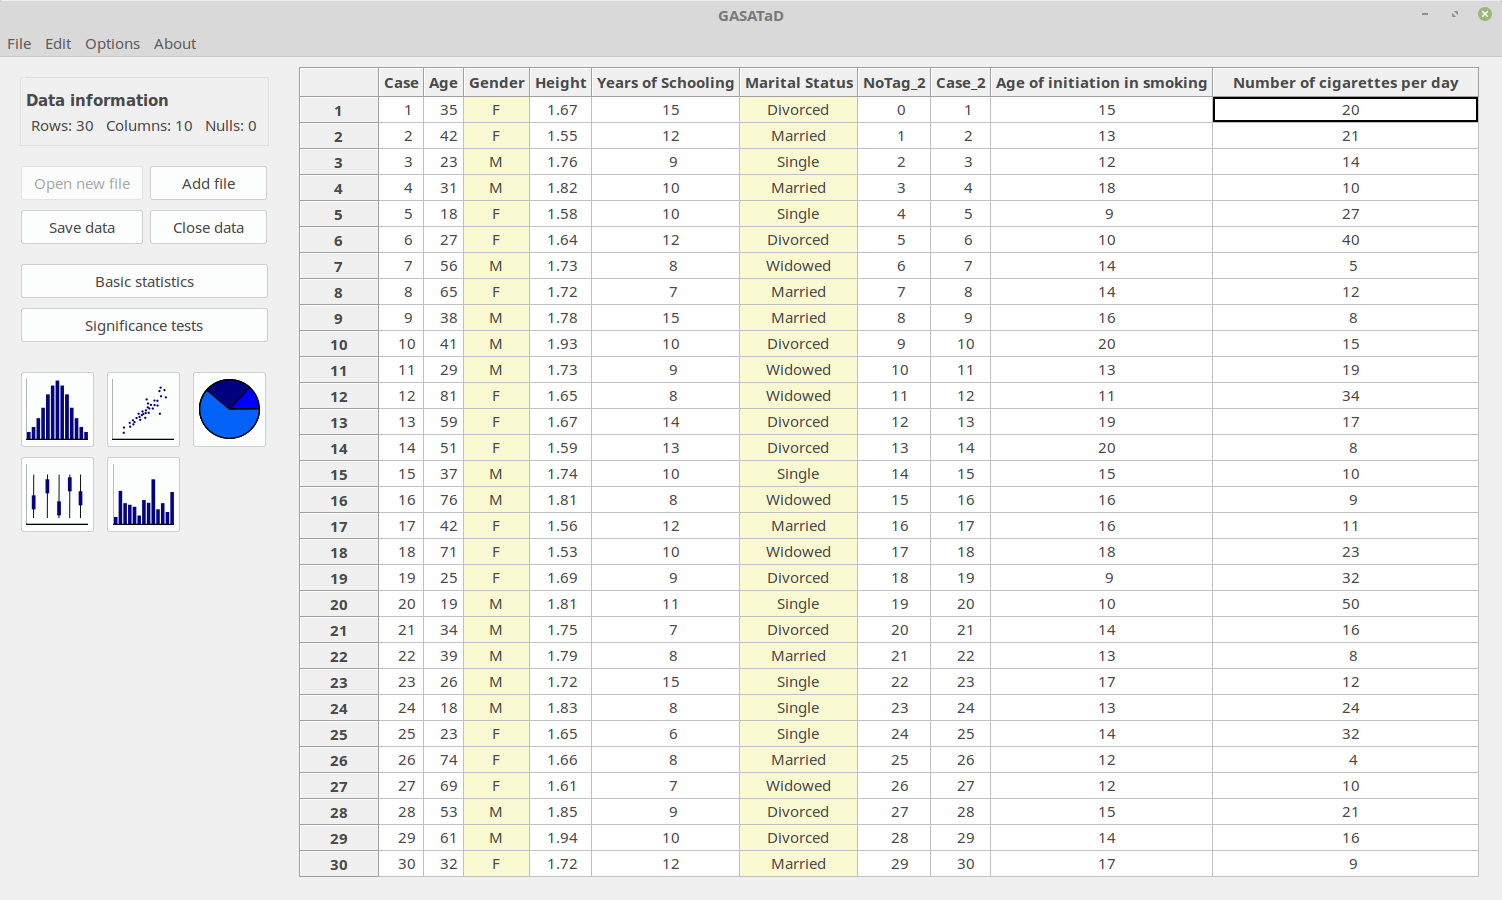
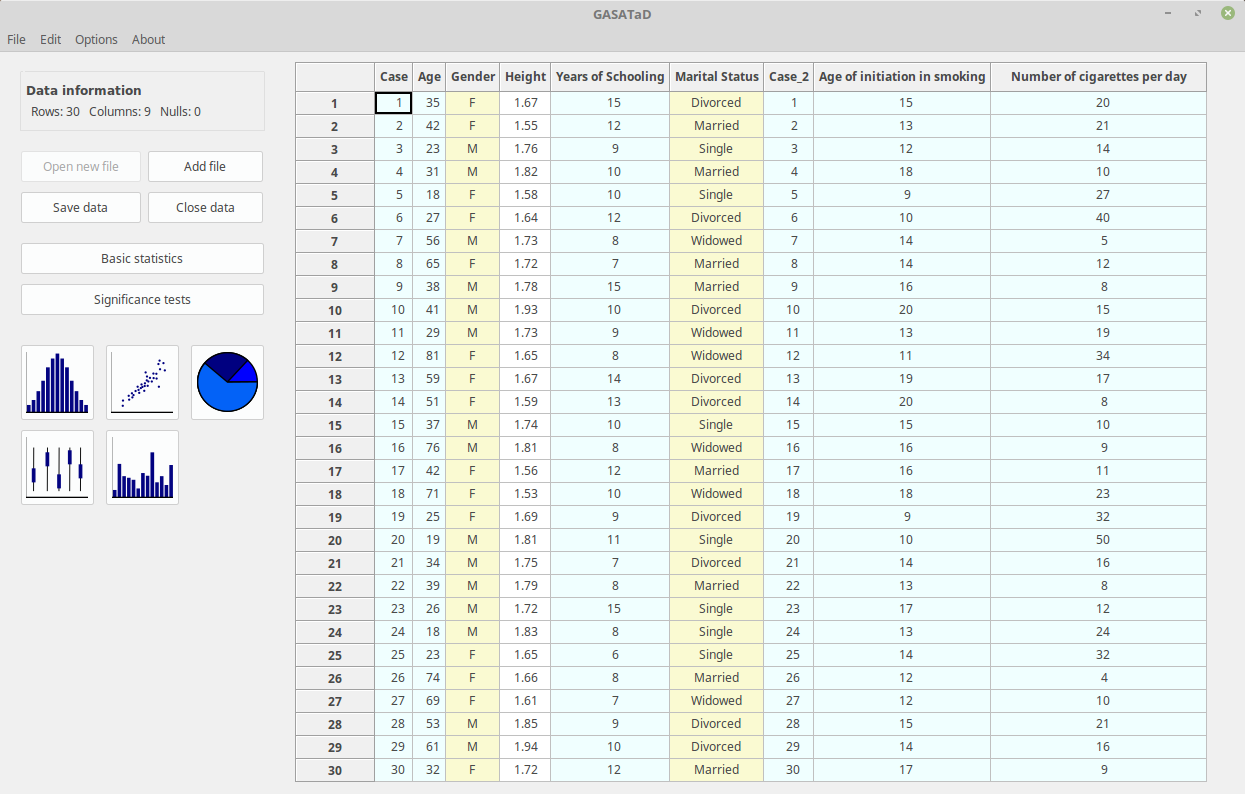
Update 5-minutes-tour to v1.5

diff --git a/docs/fiveminutestour.html b/docs/fiveminutestour.html
@@ -50,13 +50,13 @@
 						<li><p>Merges data of different nature from different files.</p></li>
 						<li><p>Calculates basic statistical results over the data.</p></li>
 						<li><p>Performs different significance test.</p></li>
-						<li><p>Generates and exports high quality plots.</p></li>
 						<li><p>Classifies data into different categories.</p></li>
+						<li><p>Generates and exports high quality plots.</p></li>
 					</ul>
 
 					<h2>Hardware and software requirements</h2>
 					<p>Basic hardware requirements to run GASATaD are 3GB of RAM, and 5GB free space of hard disk.</p>
-					<p>The application runs on GNU/Linux, 32 and 64 bits (e.g. Ubuntu Linux); Microsoft Windows, 32 and 64 bits; and MacOS, 32 and 64 bits.</p>
+					<p>The application runs on GNU/Linux (e.g. Ubuntu Linux), Microsoft Windows and MacOS.</p>
 					<br/>
 
 					<h2>Interface description</h2>
@@ -66,13 +66,13 @@
 							<img src="./fiveimgs/MainWindow.png" alt="" style="width:100%"/>
 					</div>
 					<br/>
-					<p>On the right side, data will be displayed on a table when files are opened. Initially, columns are labeled with letters and the rows using numbers. Numerical values appear in white cells whereas textual data will be presented with yellow background.</p>
-					<p>On the left panel, the upper area corresponds to information about the data (number of rows, columns and null values) . Just under this area, buttons are available to manage data and files, and to perform statistical analyses (basic or significance). Below, plotting functionalities are included.</p>
+					<p>On the right side of the window, the data will be displayed on a table when files are opened. Initially, columns will be labeled using letters and rows will be labeled with numbers. Numerical values will appear in white or light blue cells, depending if they belong to float or integer columns, respectively. Textual data will be presented in yellow background.</p>
+					<p>On the left panel, the upper area shows information about the data (number of rows, columns and null values). Just under this area, buttons are available to manage data and files, or to perform basic statistical analyses or significance tests. Below, plotting functionalities are included.</p>
 
 					<br/>
 
 					<h2>A five minutes guided example in GASATaD</h2>
-					<p>First, download .csv data files from <a href="https://milegroup.github.io/gasatad/#download" target="_blank">https://milegroup.github.io/gasatad/#download</a>. Two files are provided: testfile1.csv and testfile2.csv.</p>
+					<p>First, download .csv data files from <a href="https://milegroup.github.io/gasatad/#download" target="_blank">https://milegroup.github.io/gasatad/#download</a>. Uncompress to obtain two files: testfile1.csv and testfile2.csv.</p>
 					<br/>
 
 					<ol>
@@ -103,7 +103,7 @@
 						<li>
 							<p><i>Reorder the rows of the table:</i> select the <b>Age</b> column and then you can either use the main menu (<b>Edit → Sort using selected column → ascending</b>), or right-click and the <b>Sort using column → ascending</b> option.</p>
 							<br/>
-							<div class="mx-auto col-md-11">
+							<div class="mx-auto col-md-12">
 								<img src="./fiveimgs/SortData.png" alt="" style="width:100%"/>
 							</div>
 						</li>
@@ -115,12 +115,12 @@
 								<img src="./fiveimgs/AddColumn.png" alt="" style="width:100%"/>
 							</div>
 							<br/>
-							<p>Afterwards, a new column labeled <b>Age ranges</b> will be created. This column will classify the rows into three different age ranges: young, adult and elder.</p>
+							<p>A new column labeled <b>Age ranges</b> will be created. This column classifies the rows into three different age ranges: young, adult and elder.</p>
 						</li>
 						<br/>
 
 						<li>
-							<p><i>Calculate basic statistics of a numerical column:</i> on the left panel, click on the button <b>Basic statistics</b>, and select the column <b>Age</b>. You can restrict which values of the column are going to be used, and, after pressing <b>Show results</b>, a basic statistical analysis of these values is presented.</p>
+							<p><i>Calculate basic statistics of a numerical column:</i> on the left panel, click on the button <b>Basic statistics</b>, and select the column <b>Age</b>. You can restrict which values of the column are going to be used, and, after pressing <b>Show results</b>, a basic statistical analysis of these values will be presented.</p>
 							<br/>
 							<div class="mx-auto col-md-10">
 								<img src="./fiveimgs/BasicStatistics.png" alt="" style="width:100%"/>
@@ -128,7 +128,7 @@
 						</li>
 						<br/>
 						<li>
-							<p><i>Perform a comparative analysis between variables:</i> on the main window, click on the button <b>Significance tests</b>. Select two numerical columns to be used which values of each column are to be included in the test. After pressing <b>Show results</b> values are presented for the following significance tests: standard t-test, Welch’s, Kolmogorov-Smirnov, and Wilcoxon rank-sum.</p>
+							<p><i>Perform a comparative analysis between variables:</i> on the main window, click on the button <b>Significance tests</b>. Select two numerical columns to be used in the test. After pressing <b>Show results</b> values are presented for the following significance tests: standard t-test, Welch’s, Kolmogorov-Smirnov, and Wilcoxon rank-sum.</p>
 							<br/>
 							<div class="mx-auto col-md-12">
 								<img src="./fiveimgs/Significance.png" alt="" style="width:100%"/>
@@ -136,17 +136,34 @@
 						</li>
 						<br/>
 						<li>
-							<p><i>Plot data:</i> on the main window, click on the icon representing a pie-chart. Select the tag <b>Age range</b> and, after pressing <b>Ok</b>, a new window containing the plot will open.</p>
+							<p><i>Plot data:</i> on the main window, click on the button depicting a pie-chart. Select the tag <b>Age range</b> and, after pressing <b>Ok</b>, a new window containing the plot will open.</p>
 							<br/>
 							<div class="mx-auto col-md-6">
 								<img src="./fiveimgs/PieChart.png" alt="" style="width:100%"/>
 							</div>
 							<br/>
-							<p>The plot can be modified by clicking on the buttons on the bar at the bottom of the image. Button <img src="./fiveimgs/PlotArrows.png"/> can be used to displace the plot along both the x and y axis. Parts of the graph can be zoomed with button <img src="./fiveimgs/PlotZoom.png"/>. Margins can be modified by means of button <img src="./fiveimgs/PlotMargins.png"/>, and actions can be either undone or redone with buttons <img src="./fiveimgs/PlotLR.png"/>. Modifications can be removed by using the button <img src="./fiveimgs/PlotHome.png"/>. Finally, the plot can be saved in different formats, such as .epg, .pgf, .pdf, .png, .ps, .raw, and .svg., by clicking on button <img src="./fiveimgs/PlotSave.png"/></p>
+							<p>The plot can be modified by clicking on the buttons at the bottom of the image (the aspect of the buttons can be different depending on the operating system): </p>
+							<ul>
+								<li><img src="./fiveimgs/PlotArrows.png"/> moves the plot along the x and y axes.</li>
+								<li><img src="./fiveimgs/PlotZoom.png"/> selects and zooms in areas of the plot.</li>
+								<li><img src="./fiveimgs/PlotMargins.png"/> edits margins.</li>
+								<li><img src="./fiveimgs/PlotLR.png"/> allow users to un-do or re-do actions.</li>
+								<li><img src="./fiveimgs/PlotHome.png"/> resets the plot.</li>
+								<li><img src="./fiveimgs/PlotSave.png"/> saves the plot to file. Possible formats are .epg, .pgf, .pdf, .png, .ps, .raw, and .svg.</li>
+							</ul>
 						</li>
 						<br/>
 						<li>
-							<p><i>Exit:</i> to quit GASATaD, just use either the menu option <b>File -> Quit</b> or close the window using the top bar.</p>
+							<p><i>Edit data:</i> individual cells can be modified by double-clicking on them:</p>
+							<br/>
+							<div class="mx-auto col-md-12">
+								<img src="./fiveimgs/EditCell.png" alt="" style="width:100%"/>
+							</div>
+							<br/>
+						</li>
+						<br/>
+						<li>
+							<p><i>Exit:</i> to quit GASATaD, just use either use the <b>File -> Quit</b> menu option or close the window.</p>
 							<br/>
 							<div class="mx-auto col-md-12">
 								<img src="./fiveimgs/Exit.png" alt="" style="width:100%"/>
